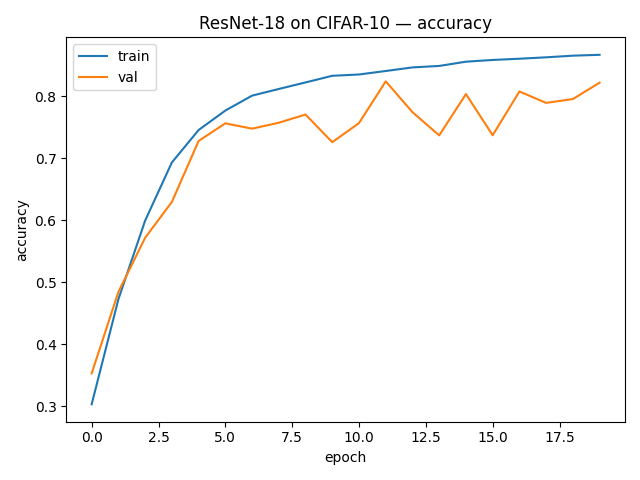
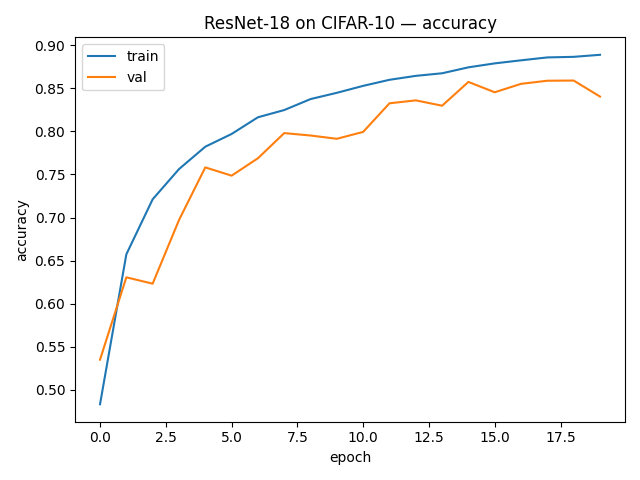
Readme updated

diff --git a/vision/resnet/README.md b/vision/resnet/README.md
@@ -78,7 +78,21 @@ Training config (baseline):
 
 Final run:
 
-[epoch 20] train_acc=0.867  val_acc=0.822  best_val=0.824
+### Optimizer comparison (20 epochs, CIFAR-10)
+
+| Optimizer | LR     | Weight Decay | Epochs | Best Val Acc |
+|-----------|--------|--------------|--------|--------------|
+| SGD       | 0.10   | 5e-4         | 20     | 0.824        |
+| Adam      | 0.001  | 5e-4         | 20     | 0.859        |
+
+### Observations
+
+- **Adam outperformed SGD** in this setup (`best_val: 0.859 vs 0.824`), despite SGD being traditionally stronger on CIFAR-like tasks.
+- Adam converged faster and reached higher validation accuracy with a lower learning rate (`1e-3`).
+- This suggests that **our ResNet-18 initialization + augmentations** favored Adam’s adaptive updates.
+- Running a **learning-rate sweep for SGD (0.1 / 0.05 / 0.01)** would help verify if SGD can catch up with the right LR.
+
+
 
 ## Training Curves
 
